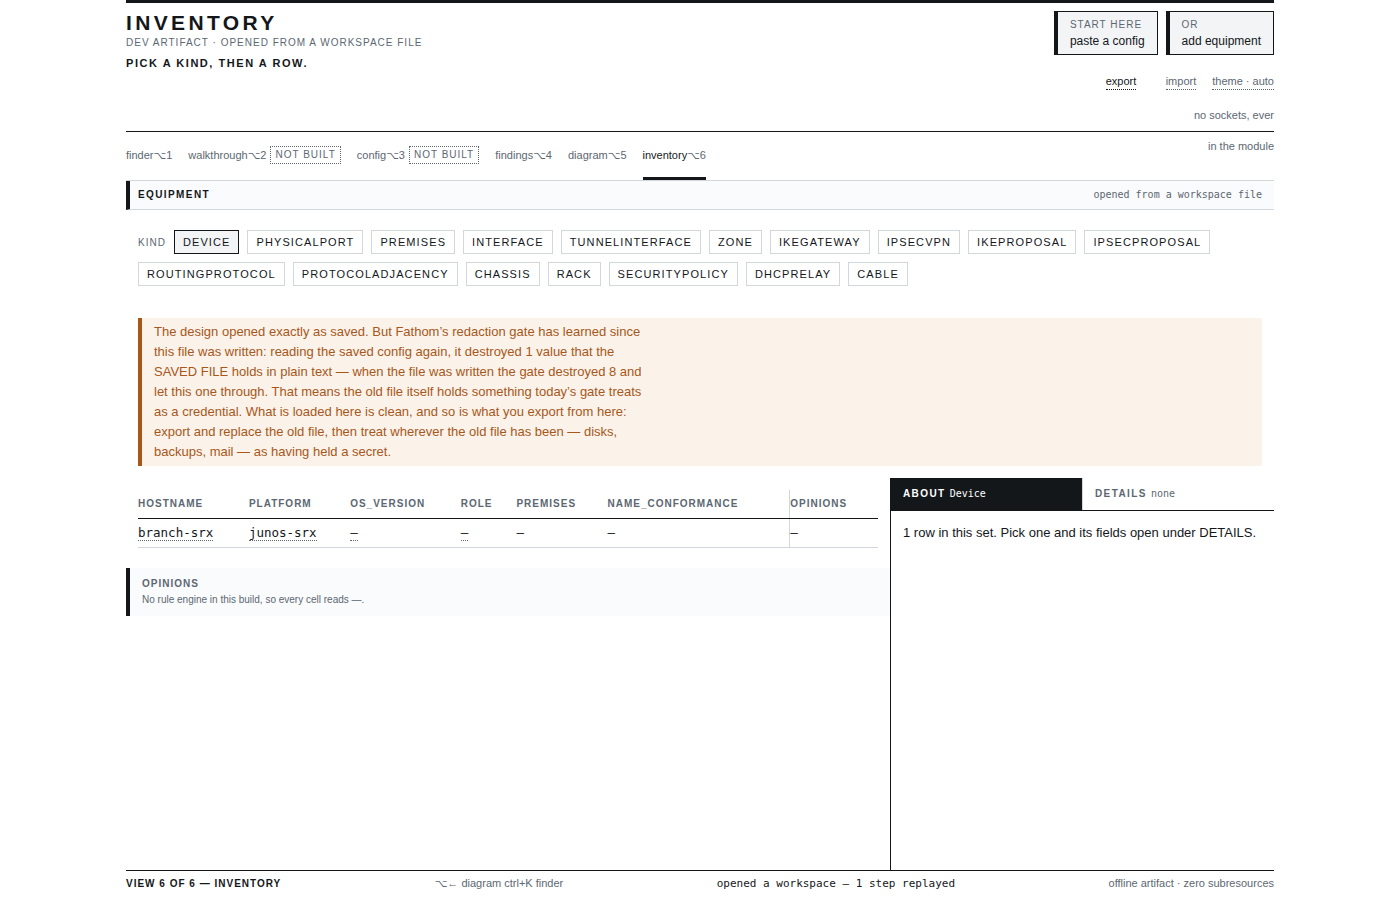
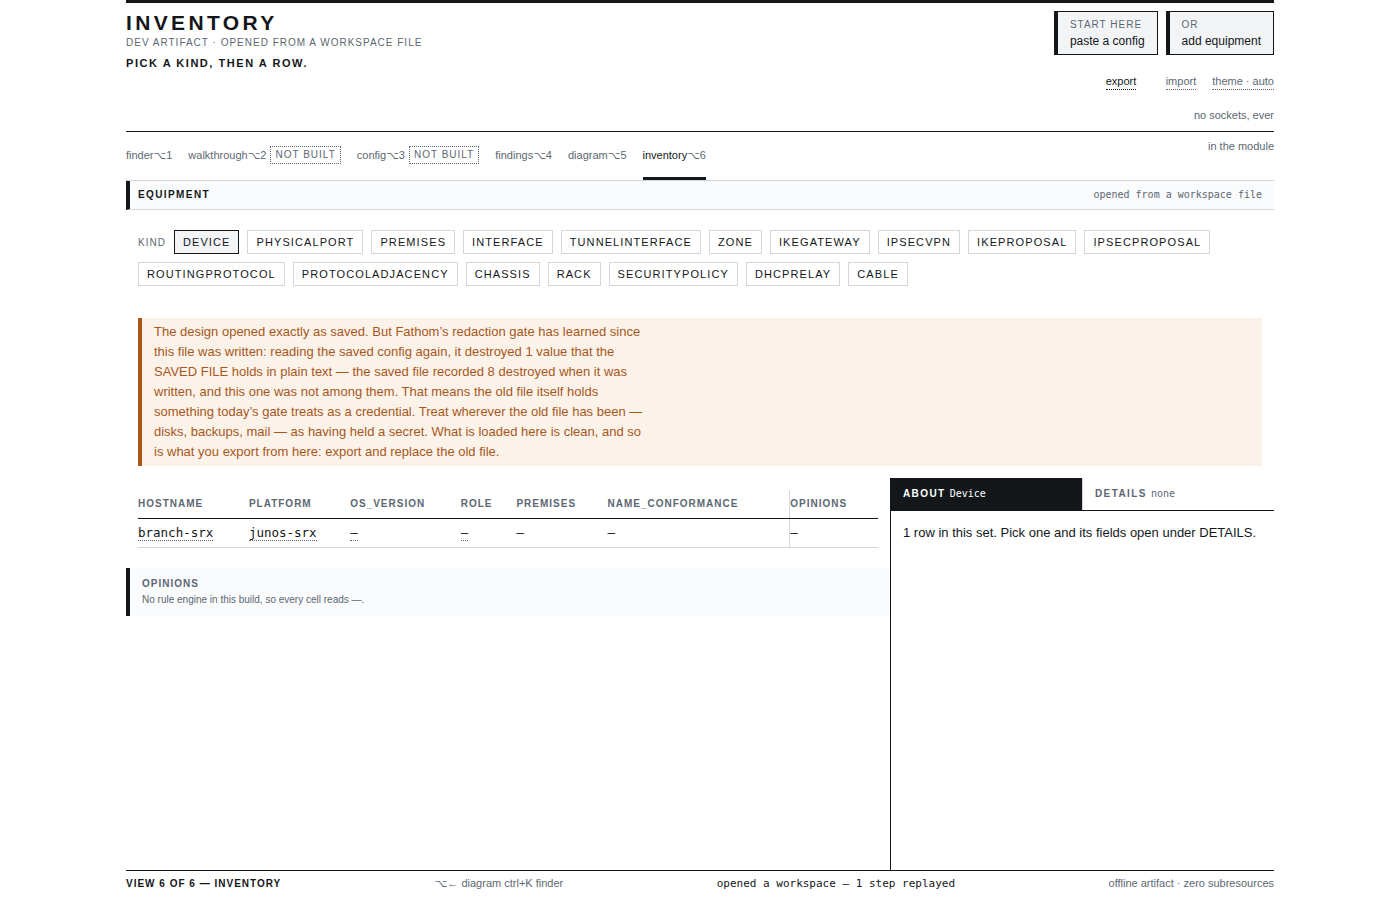
The gate note contradicted the drift note beside it and quoted a hand-edited number as the gate's own act; each sentence now says whose fact it states
A skeptic attacked 3761364 ("…the tally now counts what a run destroyed,
and a round trip is not a drift"), held on the finding and the fix, and
found three wording defects in the note it added. All three are fixed
here, by the supervising session rather than another agent round, with
the same discipline: a driver check per defect that is red on 3761364.

1. noteGateLearned opened "The design opened exactly as saved." and is
   called in BOTH branches of checkDrift, so when the parse had ALSO
   read differently it rendered directly above a drift alert that says
   "Step 1 of N did not rebuild what you saved" and "Your saved file has
   not been touched — keep it". Two notes, one file, opposite advice —
   and the gate note's "export from here and replace the old file" would
   have discarded whatever the drift note says only the old file still
   holds, because an export from a stopped replay carries only the
   replayed paste. checkDrift now passes `drifted`; on a drift the gate
   note drops the "exactly as saved" opening and the export-and-replace
   instruction, and says instead to read the note below before replacing
   anything, because an export from here holds only what was replayed.
   The capture swap stays in both cases: whatever else an export from
   here holds, it must not carry the credential out again.
2. "when the file was written the gate destroyed 3" stated the FILE's
   recorded number — which a hand-edited file sets to anything — as the
[…]

Changed region(s): [[0.0921, 0.4044, 0.4607, 0.5289]]

diff --git a/crates/fathom-artifact/html/fathom-dev.src.html b/crates/fathom-artifact/html/fathom-dev.src.html
@@ -10699,8 +10699,9 @@ function checkDrift(o, reply, step, total) {
      gate that learned are independent facts about one file, and `renderDrift`
      has always drawn both, the gate note first. */
   var learned = is[3] !== undefined && Number(is[3]) > 0;
-  if (learned) noteGateLearned(o, reply, was[3], is[3]);
-  if (now === o.shape && !grew) return null;
+  var drifted = !(now === o.shape && !grew);
+  if (learned) noteGateLearned(o, reply, was[3], is[3], drifted);
+  if (!drifted) return null;
 
   var left = total - step;
   var note =
@@ -10749,24 +10750,42 @@ function checkDrift(o, reply, step, total) {
    a reply without one leaves the text alone and the note still stands.
    Driven: `2026-09-05-a-round-trip-is-not-a-drift.mjs`, which puts a PSK back
    into a saved file by hand, opens it, and reads the export. */
-function noteGateLearned(o, reply, wasN, isN) {
+function noteGateLearned(o, reply, wasN, isN, drifted) {
   var k, cap = null;
   for (k = 0; k < reply.rows.length; k++) {
     if (reply.rows[k].role === FACE_CAPTURE) { cap = reply.rows[k].s[0]; break; }
   }
   if (cap !== null) o.text = cap;
   o.secrets = String((Number(wasN) || 0) + Number(isN));
+  /* TWO WORDINGS, 2026-09-05, both from the skeptic that attacked the first cut:
+     (1) `wasN` is the number the FILE recorded, and a hand-edited file records
+     whatever it likes, so the sentence attributes it to the file ("the saved
+     file recorded 3") and never states it as the gate's own act ("the gate
+     destroyed 3"), which the first cut did. (2) When the parse ALSO read
+     differently this note sits directly above the drift note, which says the
+     saved file has not been touched and to keep it; so here "opened exactly as
+     saved" is dropped (it did not) and "export and replace the old file" is
+     dropped too (an export from here holds only what was replayed, and the
+     drift note is the one that knows what the old file still holds). The
+     text swap above stays in both cases: an export from here must not carry
+     the credential out again whatever else it holds. */
   S.gateNote =
-    'The design opened exactly as saved. But Fathom\u2019s redaction gate has ' +
-    'learned since this file was written: reading the saved config again, it ' +
-    'destroyed ' + plural(isN, 'value', 'values') + ' that the SAVED FILE holds ' +
-    'in plain text' +
-    (wasN !== undefined ? ' \u2014 when the file was written the gate destroyed ' +
-      wasN + ' and let ' + (String(isN) === '1' ? 'this one' : 'these') + ' through' : '') +
-    '. That means the old file itself holds something today\u2019s gate treats as ' +
-    'a credential. What is loaded here is clean, and so is what you export from ' +
-    'here: export and replace the old file, then treat wherever the old file has ' +
-    'been \u2014 disks, backups, mail \u2014 as having held a secret.';
+    (drifted ? '' : 'The design opened exactly as saved. But ') +
+    'Fathom\u2019s redaction gate has learned since this file was written: reading ' +
+    'the saved config again, it destroyed ' + plural(isN, 'value', 'values') +
+    ' that the SAVED FILE holds in plain text' +
+    (wasN !== undefined ? ' \u2014 the saved file recorded ' + wasN + ' destroyed when ' +
+      'it was written, and ' + (String(isN) === '1' ? 'this one was' : 'these were') +
+      ' not among them' : '') +
+    '. That means the old file itself holds something today\u2019s gate treats as a ' +
+    'credential. Treat wherever the old file has been \u2014 disks, backups, mail \u2014 ' +
+    'as having held a secret. ' +
+    (drifted
+      ? 'What is loaded here is clean, but the parse also read differently \u2014 see ' +
+        'the note below before replacing the old file, because an export from here ' +
+        'holds only what was replayed.'
+      : 'What is loaded here is clean, and so is what you export from here: export ' +
+        'and replace the old file.');
 }
 
 /* Write today's answer onto a paste entry, after the operator has been told it

diff --git a/crates/fathom-wasm/tests/round_trip.rs b/crates/fathom-wasm/tests/round_trip.rs
@@ -10,7 +10,7 @@
 //! output, and exactly the number of plaintext values the saved text still
 //! held when the gate has learned since.
 //!
-//! Red on 0733288 (`"7"` in the second slot); green after.
+//! Red on 0733288 (`"7"` in the fourth slot, `summary[3]`); green after.
 
 mod common;
 
